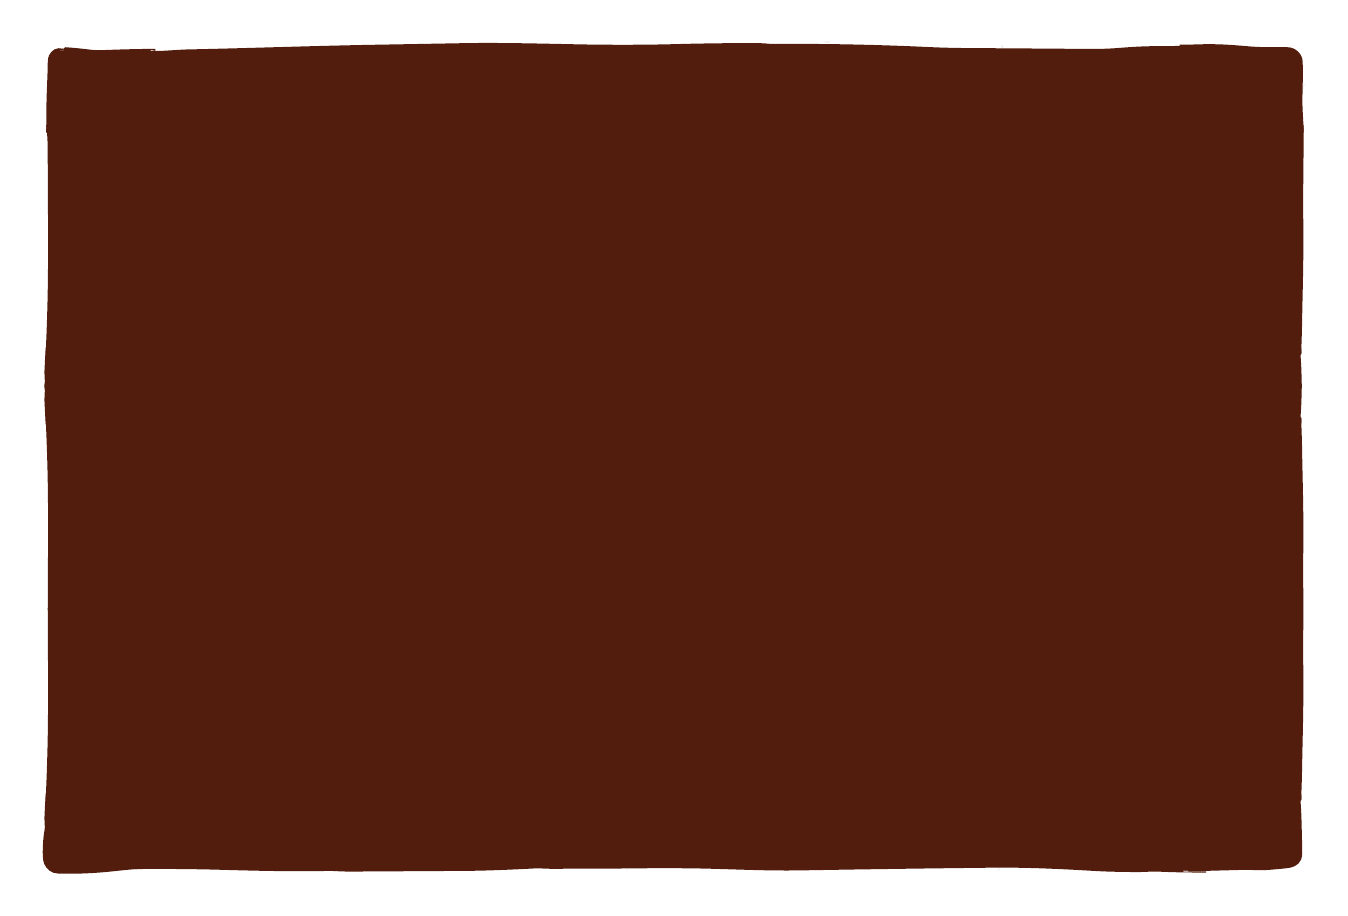
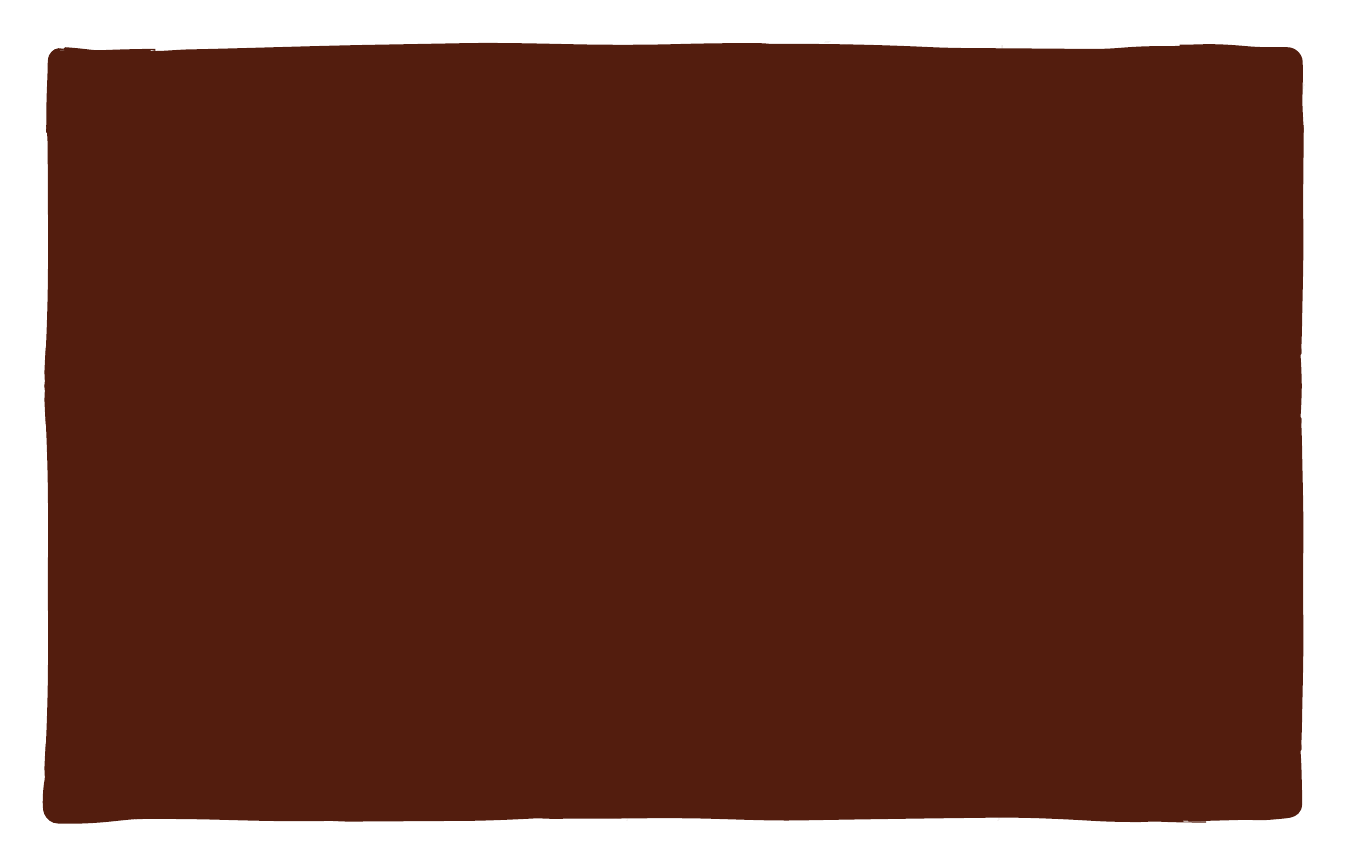
TEA에 생강차 (hot only) ₩4,300 추가, 소금빵 박스 위치·높이 조정
Claude-Session: https://claude.ai/code/session_012HYTAtRX4y2XSQaXUTKD2R

Changed region(s): [[0.0312, 0.0312, 0.9659, 0.0625]]

diff --git a/index.html b/index.html
@@ -119,13 +119,13 @@
       <canvas id="steam" aria-hidden="true"></canvas>
     </div>
     <div id="right">
-      <img id="menu" src="menu.jpg?v=16" alt="">
+      <img id="menu" src="menu.jpg?v=17" alt="">
       <!-- Salt-bread box: brown fill sways, cream text/bread stays still. Fractions of the menu panel (2x sprites, box bbox + 40 px). -->
-      <img class="ov bbox-fill" src="assets/bread-box-fill.png?v=2" alt="" aria-hidden="true" style="left:50.4905%;top:67.6852%;width:44.0811%;height:21.2037%">
-      <img class="ov bbox-text" src="assets/bread-box-text.png?v=3" alt="" aria-hidden="true" style="left:50.4905%;top:67.6852%;width:44.0811%;height:21.2037%">
-      <!-- NEW: 40 px (4320-high px) right of the 올리브 치즈 소금빵 ink (x 2152), centred on its ink (y 3544..3603); price ink starts x 2529. -->
-      <p class="pick new" aria-hidden="true" style="left:71.681%;top:82.720%">NEW</p>
-      <p class="pick new" aria-hidden="true" style="left:63.080%;top:85.590%">NEW</p>
+      <img class="ov bbox-fill" src="assets/bread-box-fill.png?v=3" alt="" aria-hidden="true" style="left:50.4905%;top:70.0000%;width:44.0811%;height:20.0000%">
+      <img class="ov bbox-text" src="assets/bread-box-text.png?v=4" alt="" aria-hidden="true" style="left:50.4905%;top:70.0000%;width:44.0811%;height:20.0000%">
+      <!-- NEW: 40 px (4320-high px) right of the 올리브 치즈 소금빵 ink (x 2152), centred on its ink (y 3602..3661; 크루아상 3726..3785); price ink starts x 2529. -->
+      <p class="pick new" aria-hidden="true" style="left:71.681%;top:84.062%">NEW</p>
+      <p class="pick new" aria-hidden="true" style="left:63.080%;top:86.933%">NEW</p>
       <div id="logoBox" aria-hidden="true"><canvas id="loopCv"></canvas></div>
       <p class="pick" aria-hidden="true" style="left:25.997%;top:65.169%">Pick!</p>
       <p class="pick" aria-hidden="true" style="left:27.109%;top:77.414%">Pick!</p>
